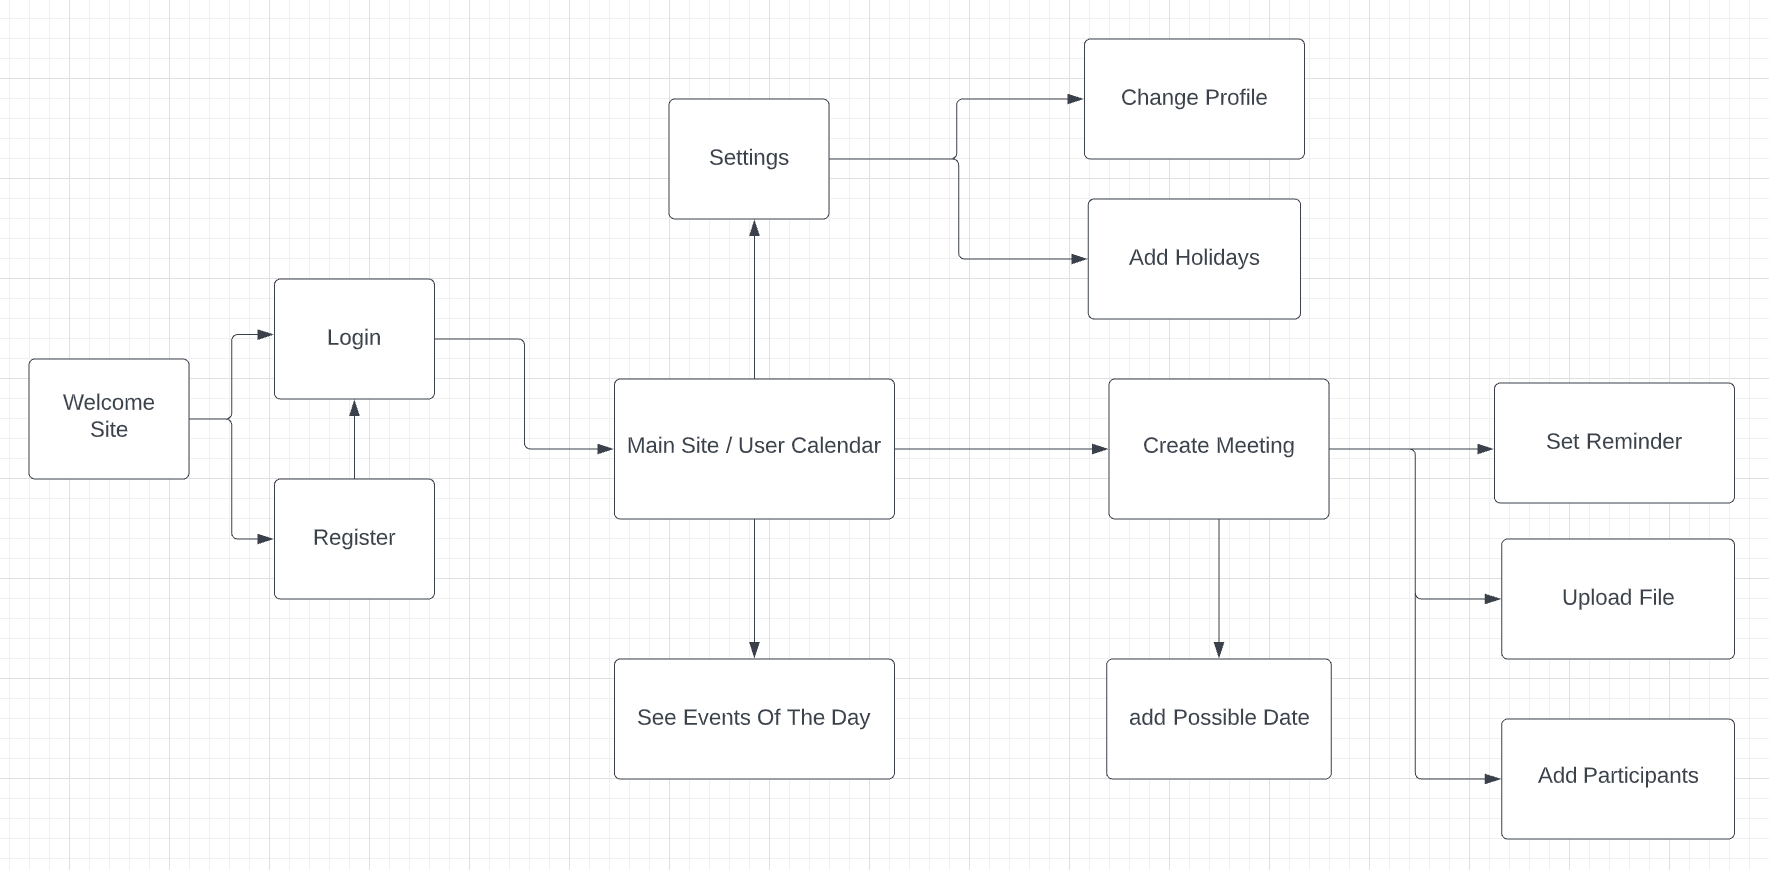
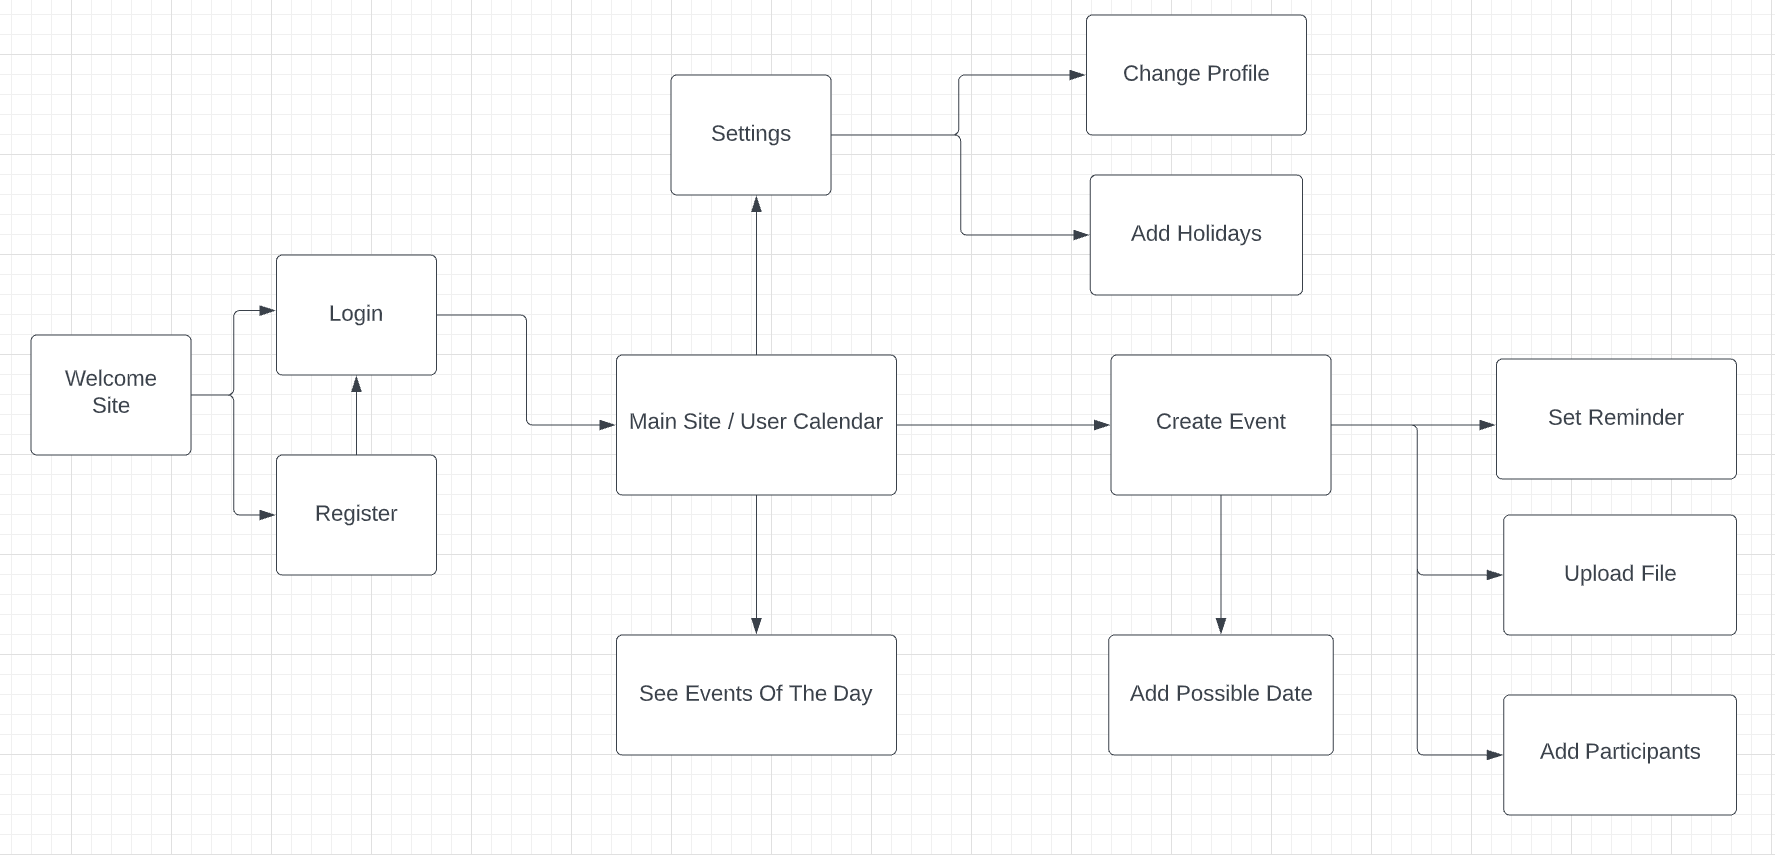
Rename:
- rename create meeting to create event
- rename each requirments link to there link number

diff --git a/documentation/Demo 2/Requirments.md b/documentation/Demo 2/Requirments.md
@@ -1,1 +1,1 @@
-[Demo 1 link](https://github.com/redhat-beyond/documents/blob/main/Beyond07-SOW.md#demo-2-april-3rd-data-model-and-business-logic)
+[Demo 2 link](https://github.com/redhat-beyond/documents/blob/main/Beyond07-SOW.md#demo-2-april-3rd-data-model-and-business-logic)

diff --git a/documentation/Demo 3/Requirments.md b/documentation/Demo 3/Requirments.md
@@ -1,1 +1,1 @@
-[Demo 1 link](https://github.com/redhat-beyond/documents/blob/main/Beyond07-SOW.md#demo-3-may-1st-control-logic-and-ui)
+[Demo 3 link](https://github.com/redhat-beyond/documents/blob/main/Beyond07-SOW.md#demo-3-may-1st-control-logic-and-ui)

diff --git a/documentation/Demo 4/Requirments.md b/documentation/Demo 4/Requirments.md
@@ -1,1 +1,1 @@
-[Demo 1 link](https://github.com/redhat-beyond/documents/blob/main/Beyond07-SOW.md#demo-4-May-15th-final-project-demo)
+[Demo 4 link](https://github.com/redhat-beyond/documents/blob/main/Beyond07-SOW.md#demo-4-May-15th-final-project-demo)
